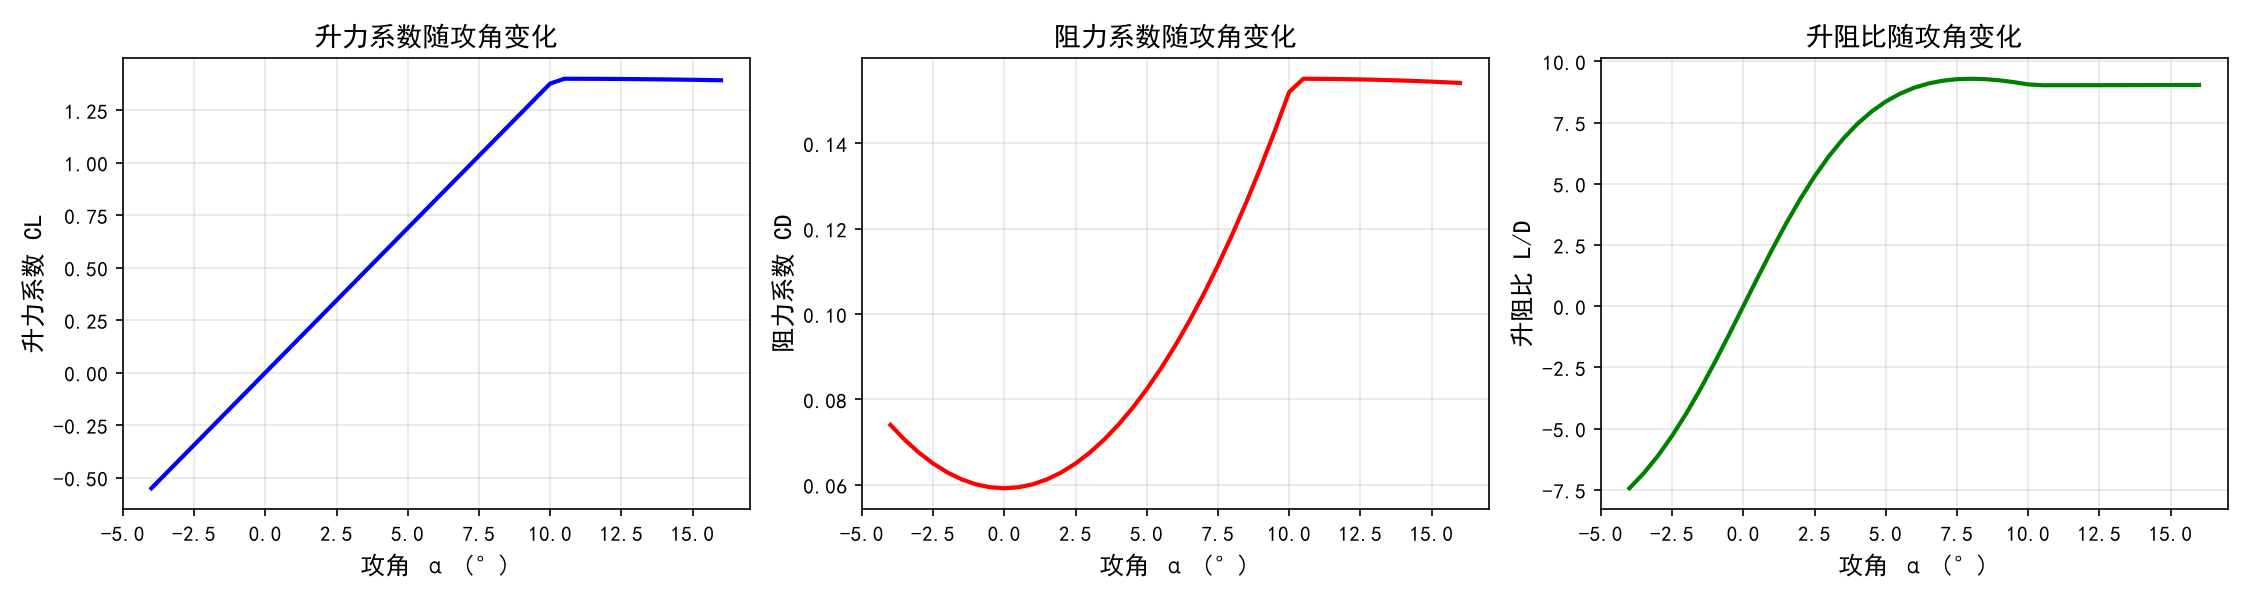
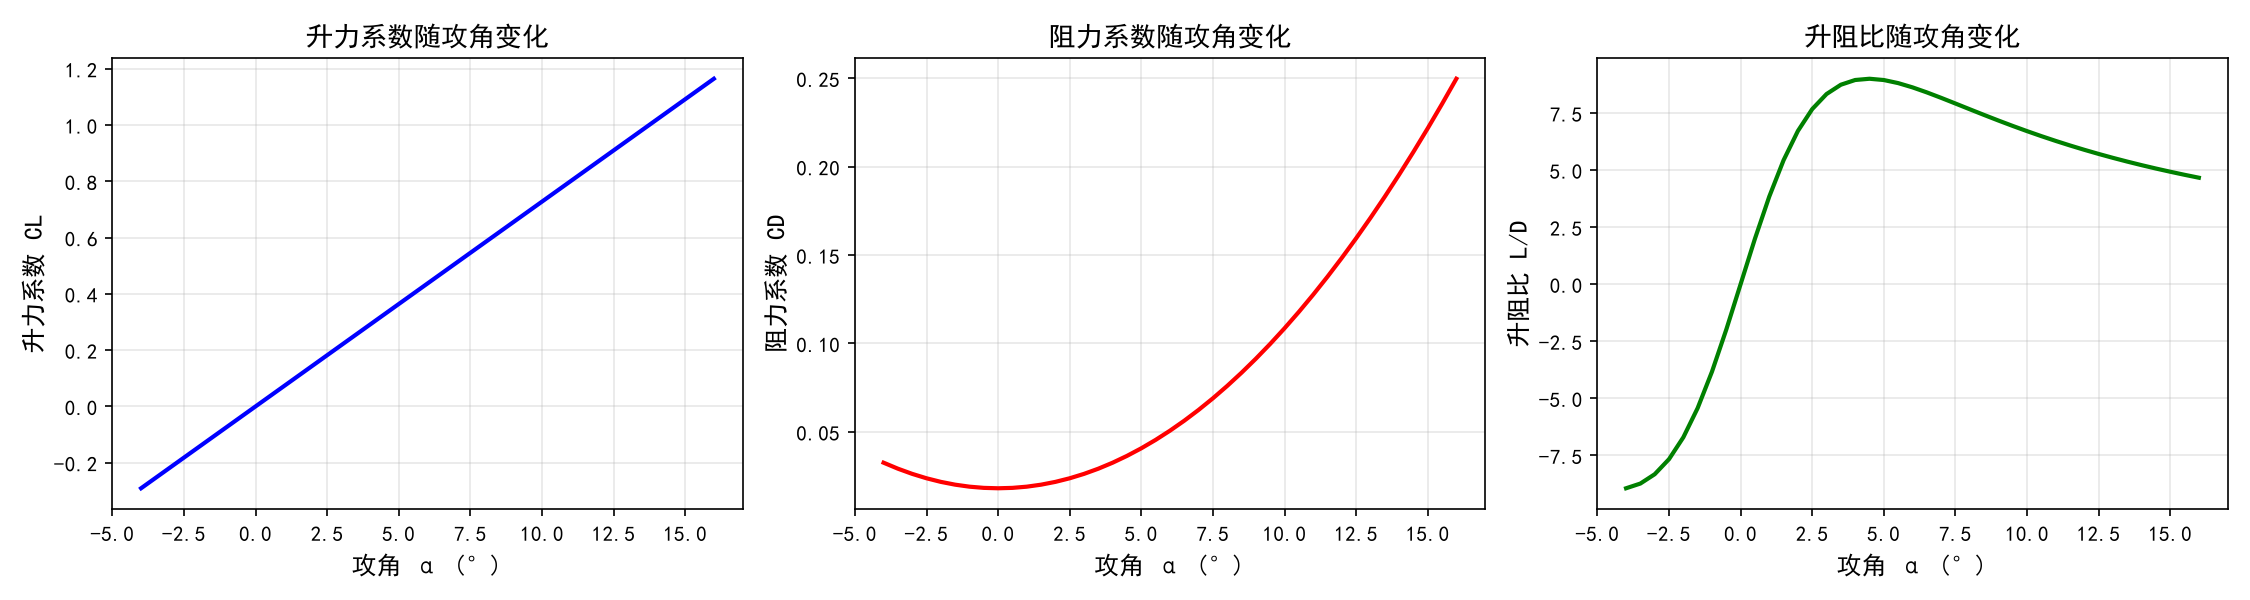
fix(plot): 修正图件坐标轴 offset 科学计数法与曲线撞色
1. 坐标轴 offset: 数据集中于大数值附近时(Ma=0.72、h=15m、V=245m/s),
   matplotlib 将刻度显示为 offset 形式(如 +7.2e-1),导致马赫数轴读数为
   -0.00010、高度轴为 0.010,报告图表无法直接解读。
   新增 _save() 统一禁用 offset, 坐标轴直接显示真实数值。

2. 曲线撞色: 原固定色表仅 7 种, 现有 9 条弹道曲线导致 C6/C0、C7/C1 同色,
   图例产生歧义。改用 tab10 配色, 按曲线数分配不重复颜色。

同时重新生成 analysis/figures/ 下全部 10 张图件, 使其与当前
output/*.csv 数据一致(此前 7 张仍为 9/21 的旧数据, 与燃油消耗修复
及 trajectory 重构后的结果不符)。

diff --git a/analysis/plot.py b/analysis/plot.py
@@ -67,6 +67,25 @@ FIGURE_DIR = os.path.join(os.path.dirname(__file__), 'figures')
 def ensure_dir(path):
     os.makedirs(path, exist_ok=True)
 
+def _iter_axes(axes):
+    """统一取出单个 Axes 或 Axes 数组中的所有坐标轴"""
+    if isinstance(axes, np.ndarray):
+        return axes.ravel()
+    return [axes]
+
+def _save(fig, axes, filename):
+    """保存图件: 统一禁用坐标轴的 offset 科学计数法后输出 PNG。
+
+    当数据集中于某个大数值附近时(如 Ma=0.72、h=15 m、V=245 m/s),
+    matplotlib 会把刻度显示为 offset 形式(如 +7.2e-1),使读数无法直接解读。
+    此处统一改为 plain 形式, 坐标轴直接显示真实数值。
+    """
+    for ax in _iter_axes(axes):
+        ax.ticklabel_format(axis='both', style='plain', useOffset=False)
+        ax.get_xaxis().get_offset_text().set_visible(False)
+        ax.get_yaxis().get_offset_text().set_visible(False)
+    fig.savefig(os.path.join(FIGURE_DIR, filename), dpi=150)
+
 # ============================================================================
 # 1. 气动特性绘图
 # ============================================================================
@@ -103,7 +122,7 @@ def plot_aero():
         axes[2].grid(True, alpha=0.3)
 
         plt.tight_layout()
-        plt.savefig(os.path.join(FIGURE_DIR, 'aero_CL_CD.png'), dpi=150)
+        _save(fig, axes, 'aero_CL_CD.png')
         plt.close()
         print("  -> aero_CL_CD.png")
 
@@ -115,7 +134,7 @@ def plot_aero():
         ax.set_title('阻力极曲线 (Ma=0.72)', fontsize=13)
         ax.grid(True, alpha=0.3)
         plt.tight_layout()
-        plt.savefig(os.path.join(FIGURE_DIR, 'aero_drag_polar.png'), dpi=150)
+        _save(fig, ax, 'aero_drag_polar.png')
         plt.close()
         print("  -> aero_drag_polar.png")
 
@@ -144,7 +163,7 @@ def plot_aero():
         axes[2].grid(True, alpha=0.3)
 
         plt.tight_layout()
-        plt.savefig(os.path.join(FIGURE_DIR, 'aero_mach_sweep.png'), dpi=150)
+        _save(fig, axes, 'aero_mach_sweep.png')
         plt.close()
         print("  -> aero_mach_sweep.png")
     else:
@@ -169,7 +188,7 @@ def plot_propulsion():
         ax.set_title('固体助推器推力-时间曲线', fontsize=13)
         ax.grid(True, alpha=0.3)
         plt.tight_layout()
-        plt.savefig(os.path.join(FIGURE_DIR, 'propulsion_booster.png'), dpi=150)
+        _save(fig, ax, 'propulsion_booster.png')
         plt.close()
         print("  -> propulsion_booster.png")
     else:
@@ -194,7 +213,7 @@ def plot_propulsion():
         axes[1].grid(True, alpha=0.3)
 
         plt.tight_layout()
-        plt.savefig(os.path.join(FIGURE_DIR, 'propulsion_engine.png'), dpi=150)
+        _save(fig, axes, 'propulsion_engine.png')
         plt.close()
         print("  -> propulsion_engine.png")
 
@@ -213,11 +232,12 @@ def plot_trajectory():
 
     fig, axes = plt.subplots(2, 2, figsize=(14, 10))
 
-    colors = ['b', 'r', 'g', 'm', 'c', 'orange', 'k']
+    # 使用 tab10 配色, 保证曲线数增加时颜色不重复(原固定色表仅 7 种, 9 条曲线时会撞色)
+    cmap = plt.get_cmap('tab10')
     for idx, fpath in enumerate(sorted(traj_files)):
         df = pd.read_csv(fpath)
         case_name = os.path.basename(fpath).replace('trajectory_', '').replace('.csv', '')
-        color = colors[idx % len(colors)]
+        color = cmap(idx % 10)
 
         # 弹道曲线 x-y
         axes[0, 0].plot(df['x_m'] / 1000, df['y_m'], color=color, linewidth=1.5, label=case_name)
@@ -257,7 +277,7 @@ def plot_trajectory():
 
     plt.suptitle('BGM-109 巡航导弹弹道仿真结果对比', fontsize=15, fontweight='bold')
     plt.tight_layout()
-    plt.savefig(os.path.join(FIGURE_DIR, 'trajectory_comparison.png'), dpi=150)
+    _save(fig, axes, 'trajectory_comparison.png')
     plt.close()
     print("  -> trajectory_comparison.png")
 
@@ -294,7 +314,7 @@ def plot_trajectory():
 
         plt.suptitle('BGM-109 基准工况 (海上巡航 Ma=0.72, H=15m)', fontsize=15, fontweight='bold')
         plt.tight_layout()
-        plt.savefig(os.path.join(FIGURE_DIR, 'trajectory_baseline_detail.png'), dpi=150)
+        _save(fig, axes, 'trajectory_baseline_detail.png')
         plt.close()
         print("  -> trajectory_baseline_detail.png")
 
@@ -325,7 +345,7 @@ def plot_sweep():
         axes[1].grid(True, alpha=0.3)
 
         plt.tight_layout()
-        plt.savefig(os.path.join(FIGURE_DIR, 'sweep_velocity.png'), dpi=150)
+        _save(fig, axes, 'sweep_velocity.png')
         plt.close()
         print("  -> sweep_velocity.png")
 
@@ -348,7 +368,7 @@ def plot_sweep():
         axes[1].grid(True, alpha=0.3)
 
         plt.tight_layout()
-        plt.savefig(os.path.join(FIGURE_DIR, 'sweep_altitude.png'), dpi=150)
+        _save(fig, axes, 'sweep_altitude.png')
         plt.close()
         print("  -> sweep_altitude.png")
 
@@ -363,7 +383,7 @@ def plot_sweep():
         ax.set_title('射程随初始质量变化', fontsize=13)
         ax.grid(True, alpha=0.3)
         plt.tight_layout()
-        plt.savefig(os.path.join(FIGURE_DIR, 'sweep_mass.png'), dpi=150)
+        _save(fig, ax, 'sweep_mass.png')
         plt.close()
         print("  -> sweep_mass.png")
 
